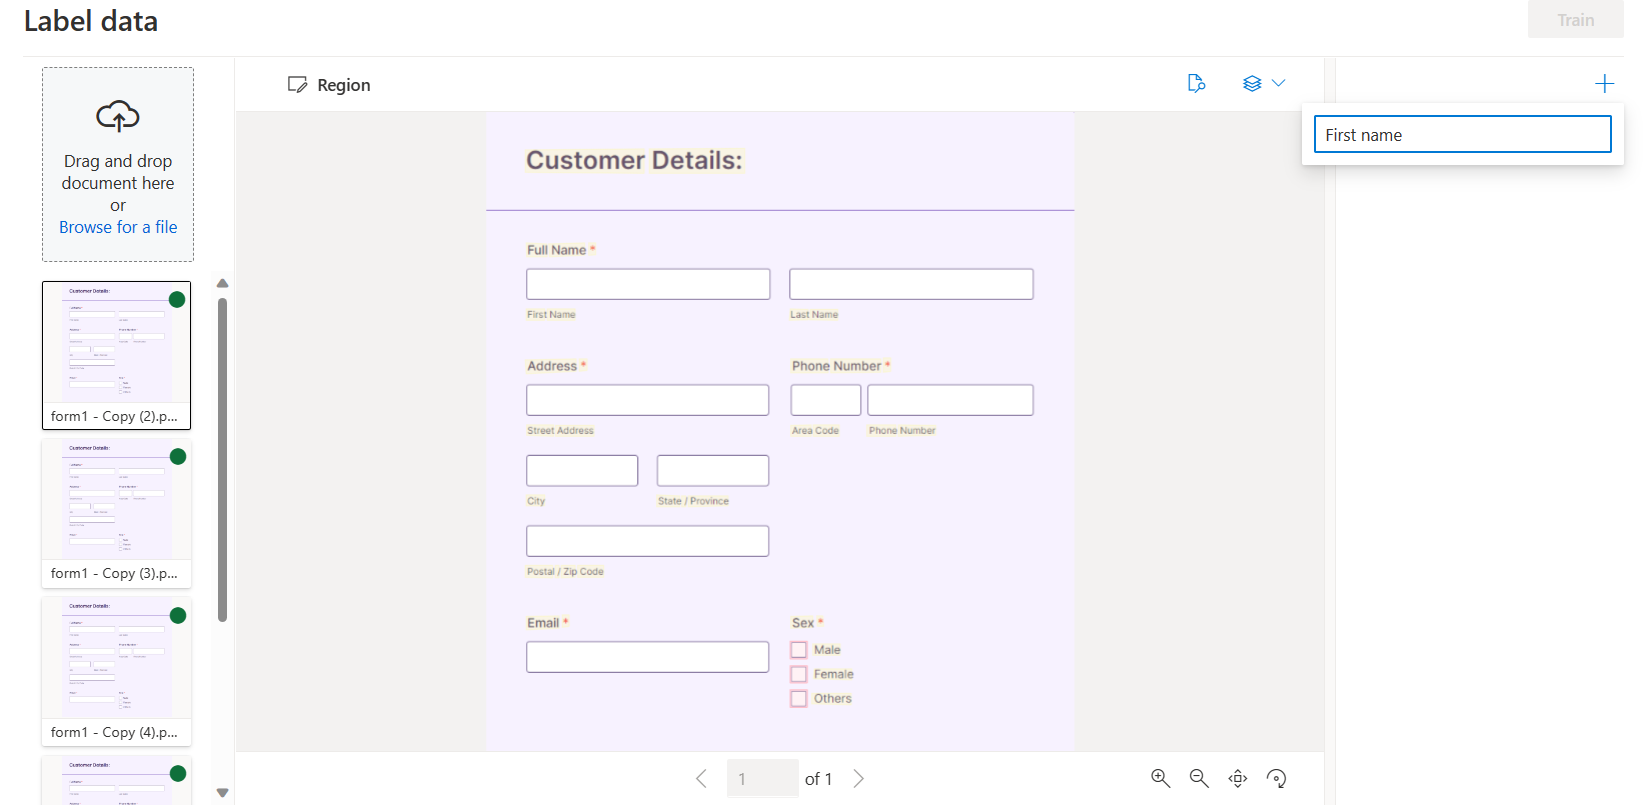
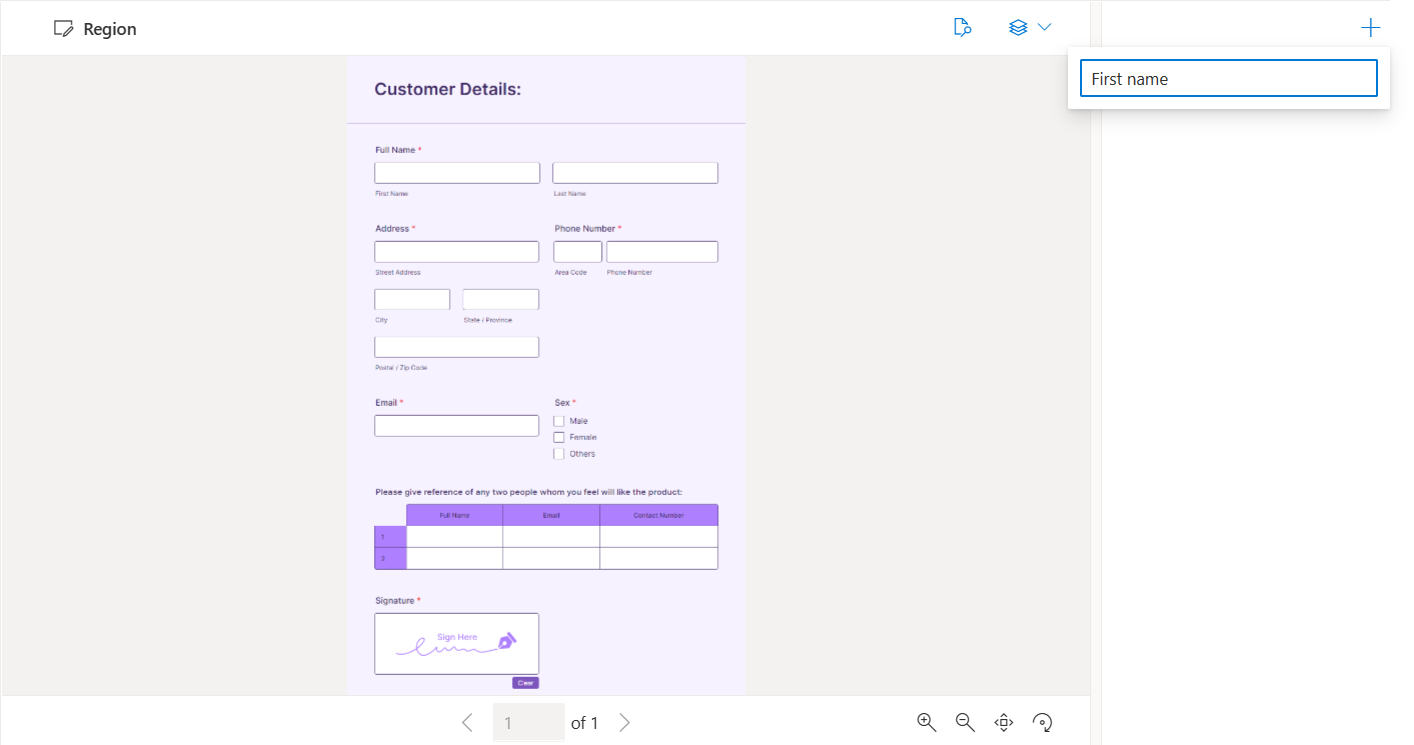
updated 04.1 doc

diff --git a/steps/04/documentation.md b/steps/04/documentation.md
@@ -57,18 +57,22 @@ Your training set will consist of structured documents where the formatting and 
 2. Enter a name for the field.
 ![Enter name](https://github.com/CSALabsAutomation/azure-ai-ml-document-processing-lab/blob/master/steps/04/assets/2.2.png)
 
-3. To assign a region to the field, draw a rectangle over the field in the form using _Region_ and select the field in either the dropdown or the field list on the right navigation bar. You'll see the labeled value below the field name in the list of fields.
+3. To assign a _Field_, draw a rectangle over the field in the form using _Region_ and select the field in either the dropdown or the field list on the right navigation bar. You'll see the labeled value below the field name in the list of fields.
 ![Select region](https://github.com/CSALabsAutomation/azure-ai-ml-document-processing-lab/blob/master/steps/04/assets/2.3.png)
-To assign a _selection mark_ field type, draw a rectangle over the field along with its respective checkbox in the form using _Region_ and select the field in either the dropdown or the field list on the right navigation bar. You'll see the labeled value below the field name in the list of fields.
+To assign a _Selection mark_, draw a rectangle over the field along with its respective checkbox in the form using _Region_ and select the field in either the dropdown or the field list on the right navigation bar. You'll see the labeled value below the field name in the list of fields.
 ![Select region](https://github.com/CSALabsAutomation/azure-ai-ml-document-processing-lab/blob/master/steps/04/assets/2.4.png)
+To assign a _Signature_, draw a rectangle over the signature box in the form using _Region_ and select the field in either the dropdown or the field list on the right navigation bar. You'll see the labeled value below the field name in the list of fields.
+![Select region](https://github.com/CSALabsAutomation/azure-ai-ml-document-processing-lab/blob/master/steps/04/assets/2.5.png)
+To create a _Table_ field, select _Table_ from the dropdown. Name the table, set the _Table type_ as _Fixed_, _Header type_ as _Column_ and click _Create_. Click on the table field you just created from the right navigation bar. You can add a columns or rows by clicking on one of the existing ones. Rename all the columns and rows so as to match the table present in the form. Draw a rectangle over the cell you want to capture, then click on the respective cell position in the table on the right navigation bar. Repeat the same process for all the remaining cells in the table.
+![Table field](https://github.com/CSALabsAutomation/azure-ai-ml-document-processing-lab/blob/master/steps/04/assets/2.6.png)
 
 4. Repeat the process for all the fields you wish to label for your dataset.
-![Labelling](https://github.com/CSALabsAutomation/azure-ai-ml-document-processing-lab/blob/master/steps/04/assets/2.5.png)
+![Labeling](https://github.com/CSALabsAutomation/azure-ai-ml-document-processing-lab/blob/master/steps/04/assets/2.7.png)
 
 5. Label the remaining documents in your dataset by selecting each document and selecting the text to be labeled.
 
 6. You now have all the documents in your dataset labeled. Click _Train_ present on the top right corner. If you look at the storage account, you'll find a .labels.json and .ocr.json files that correspond to each document in your training dataset and a new fields.json file. This training dataset will be submitted to train the model.
-![SA JSON files](https://github.com/CSALabsAutomation/azure-ai-ml-document-processing-lab/blob/master/steps/04/assets/2.6.png)
+![Train](https://github.com/CSALabsAutomation/azure-ai-ml-document-processing-lab/blob/master/steps/04/assets/2.8.png)
 
 ### Train your model
 1. On the train model dialog, provide a unique model ID and, optionally, a description. The model ID accepts a string data type.
@@ -87,18 +91,18 @@ To assign a _selection mark_ field type, draw a rectangle over the field along w
 1. Select the model and select on the Test button.
 ![Test dialog](https://github.com/CSALabsAutomation/azure-ai-ml-document-processing-lab/blob/master/steps/04/assets/4.1.png)
 
-2. Select _Fetch from URL_ to fetch a file from the storage account to test the model.
-![Fetch doc](https://github.com/CSALabsAutomation/azure-ai-ml-document-processing-lab/blob/master/steps/04/assets/4.2.png)
+2. Select _Fetch from URL_ to fetch a file from the storage account to test the model. Copy the URL to the file and paste it in the dialog box.
 
 3. With a file selected, choose the Analyze button to test the model.
 
 4. The model results are displayed in the main window and the fields extracted are listed in the right navigation bar.
+![Results](https://github.com/CSALabsAutomation/azure-ai-ml-document-processing-lab/blob/master/steps/04/assets/4.2.png)
 
 5. Validate your model by evaluating the results for each field.
 
 6. The right navigation bar also has the sample code to invoke your model and the JSON results from the API.
 
-Congratulations you've trained a custom model in the Form Recognizer Studio!
+Congratulations you've trained a custom template model in the Form Recognizer Studio!
 
 ## Template (Custom form) models
 The custom neural (custom document) model uses deep learning models and base model trained on a large collection of documents. This model is then fine-tuned or adapted to your data when you train the model with a labeled dataset. Custom neural models support structured, semi-structured, and unstructured documents to extract fields. Custom neural models currently support English-language documents. 
